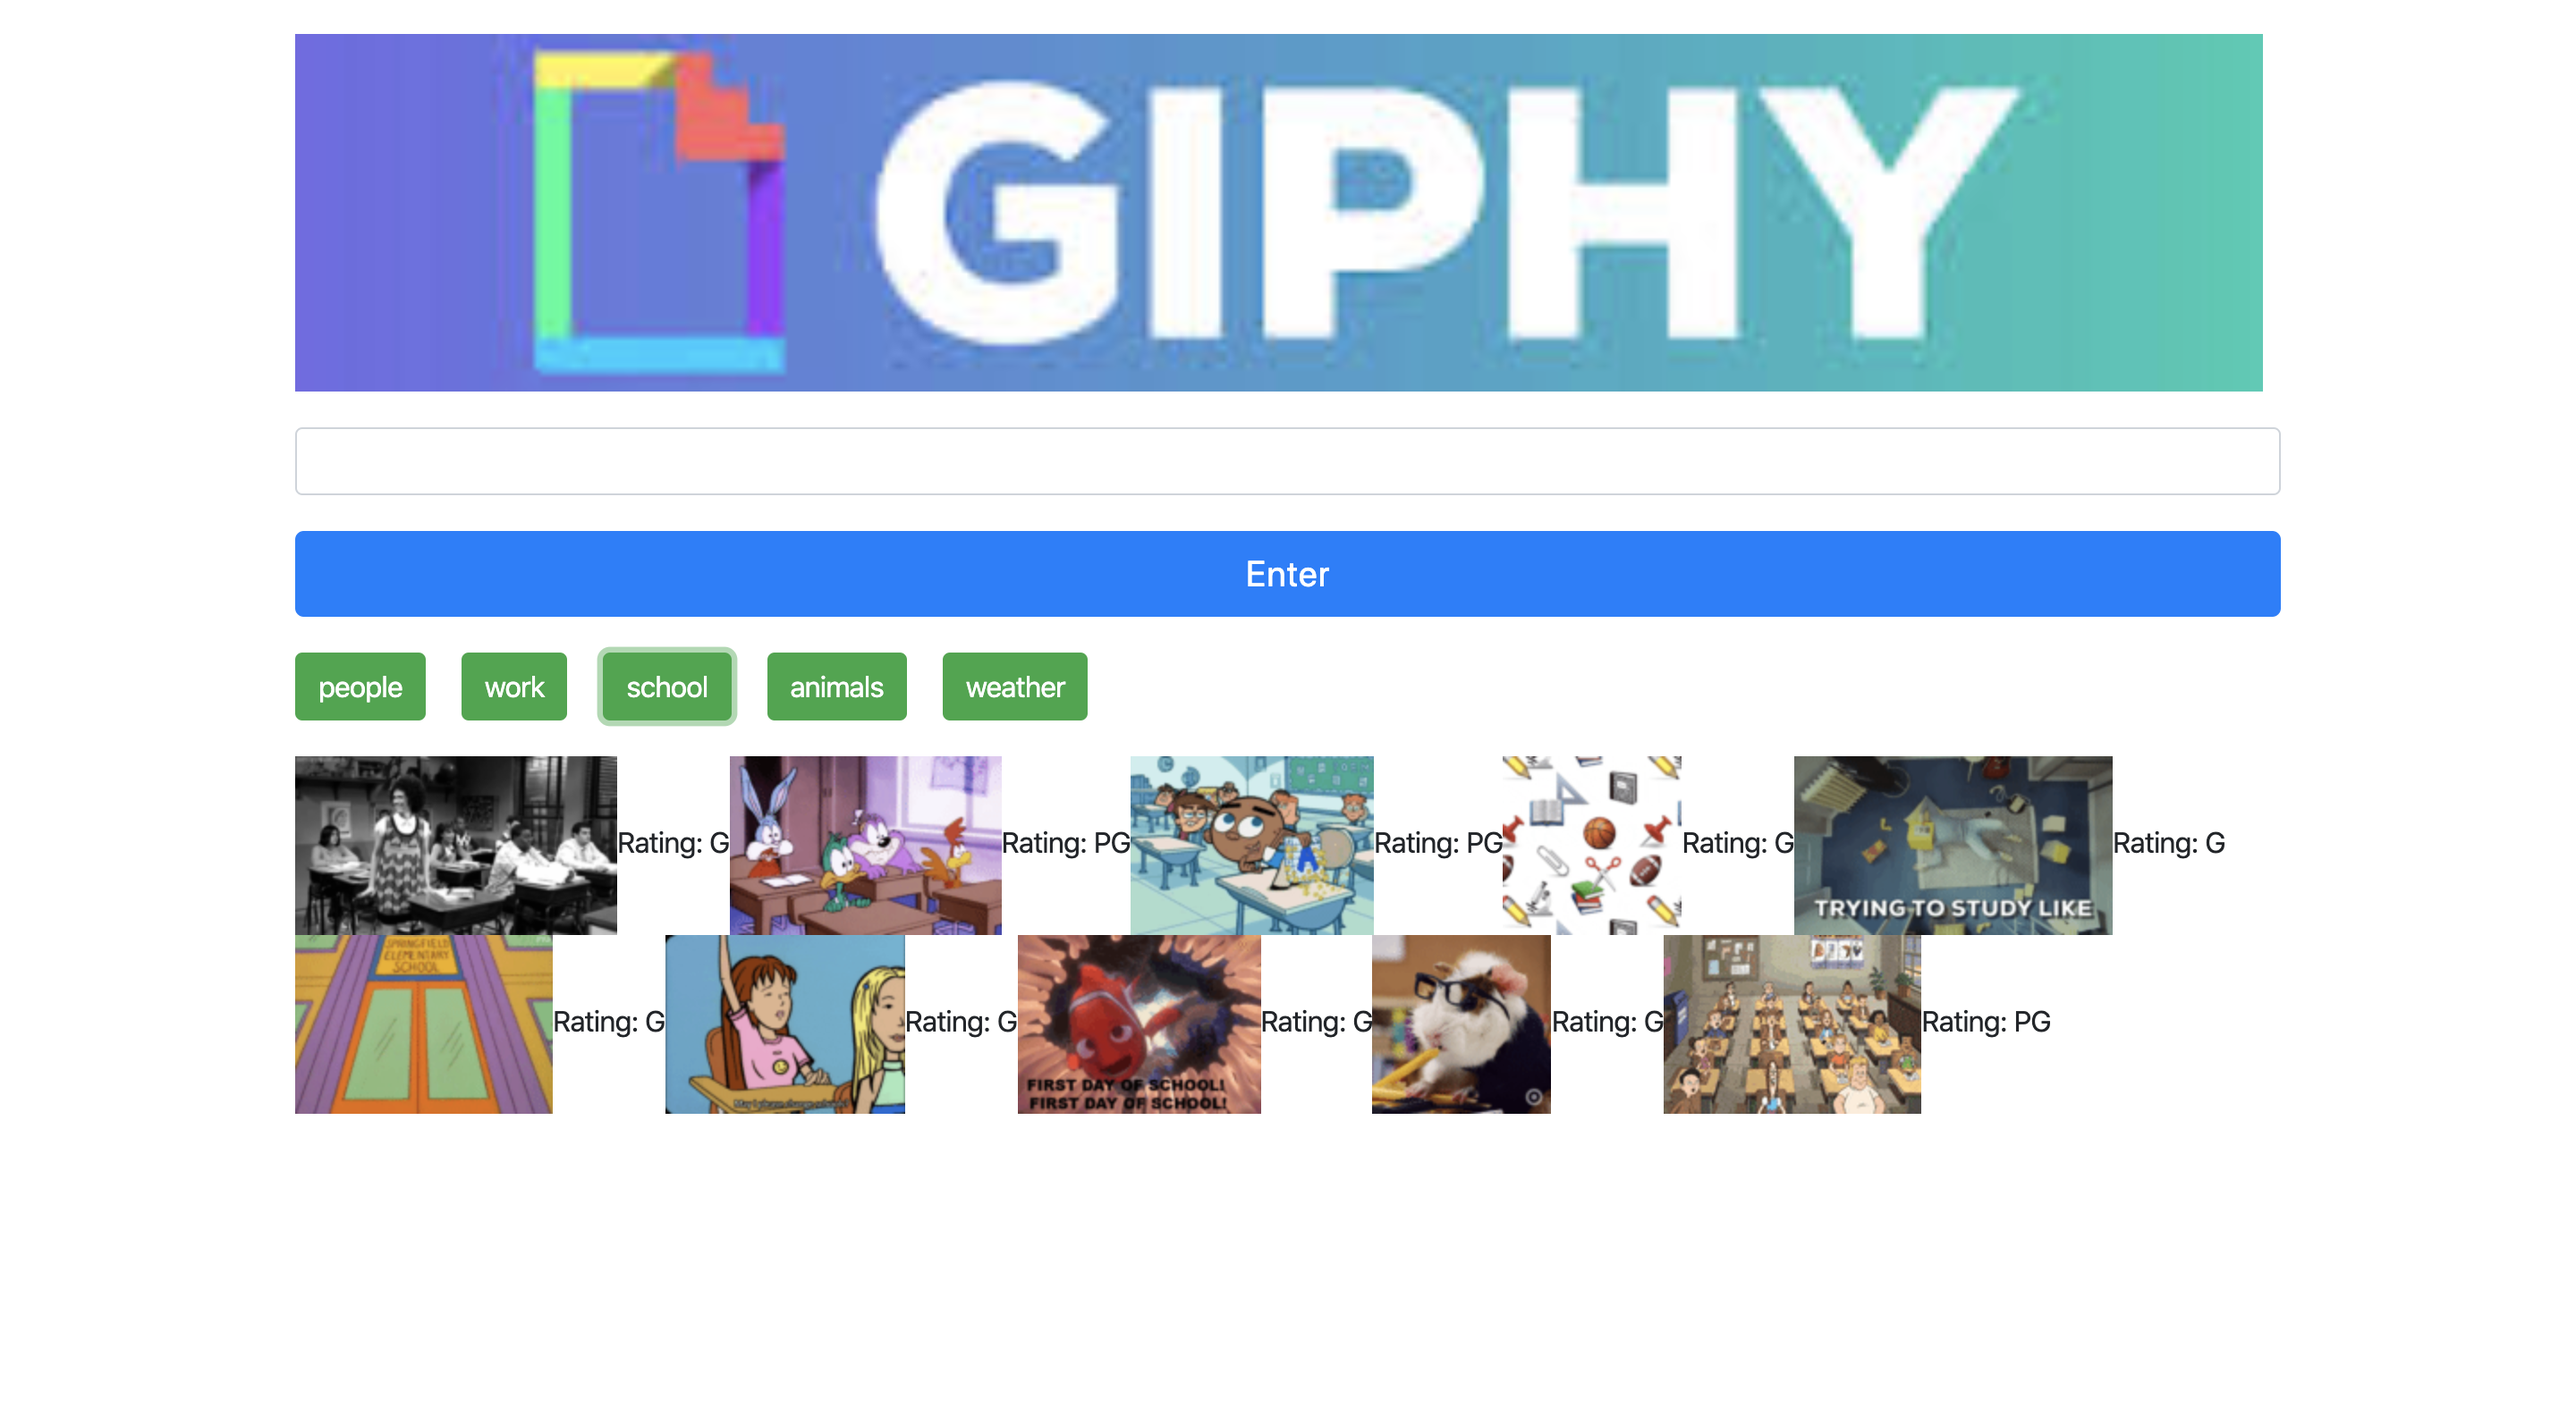
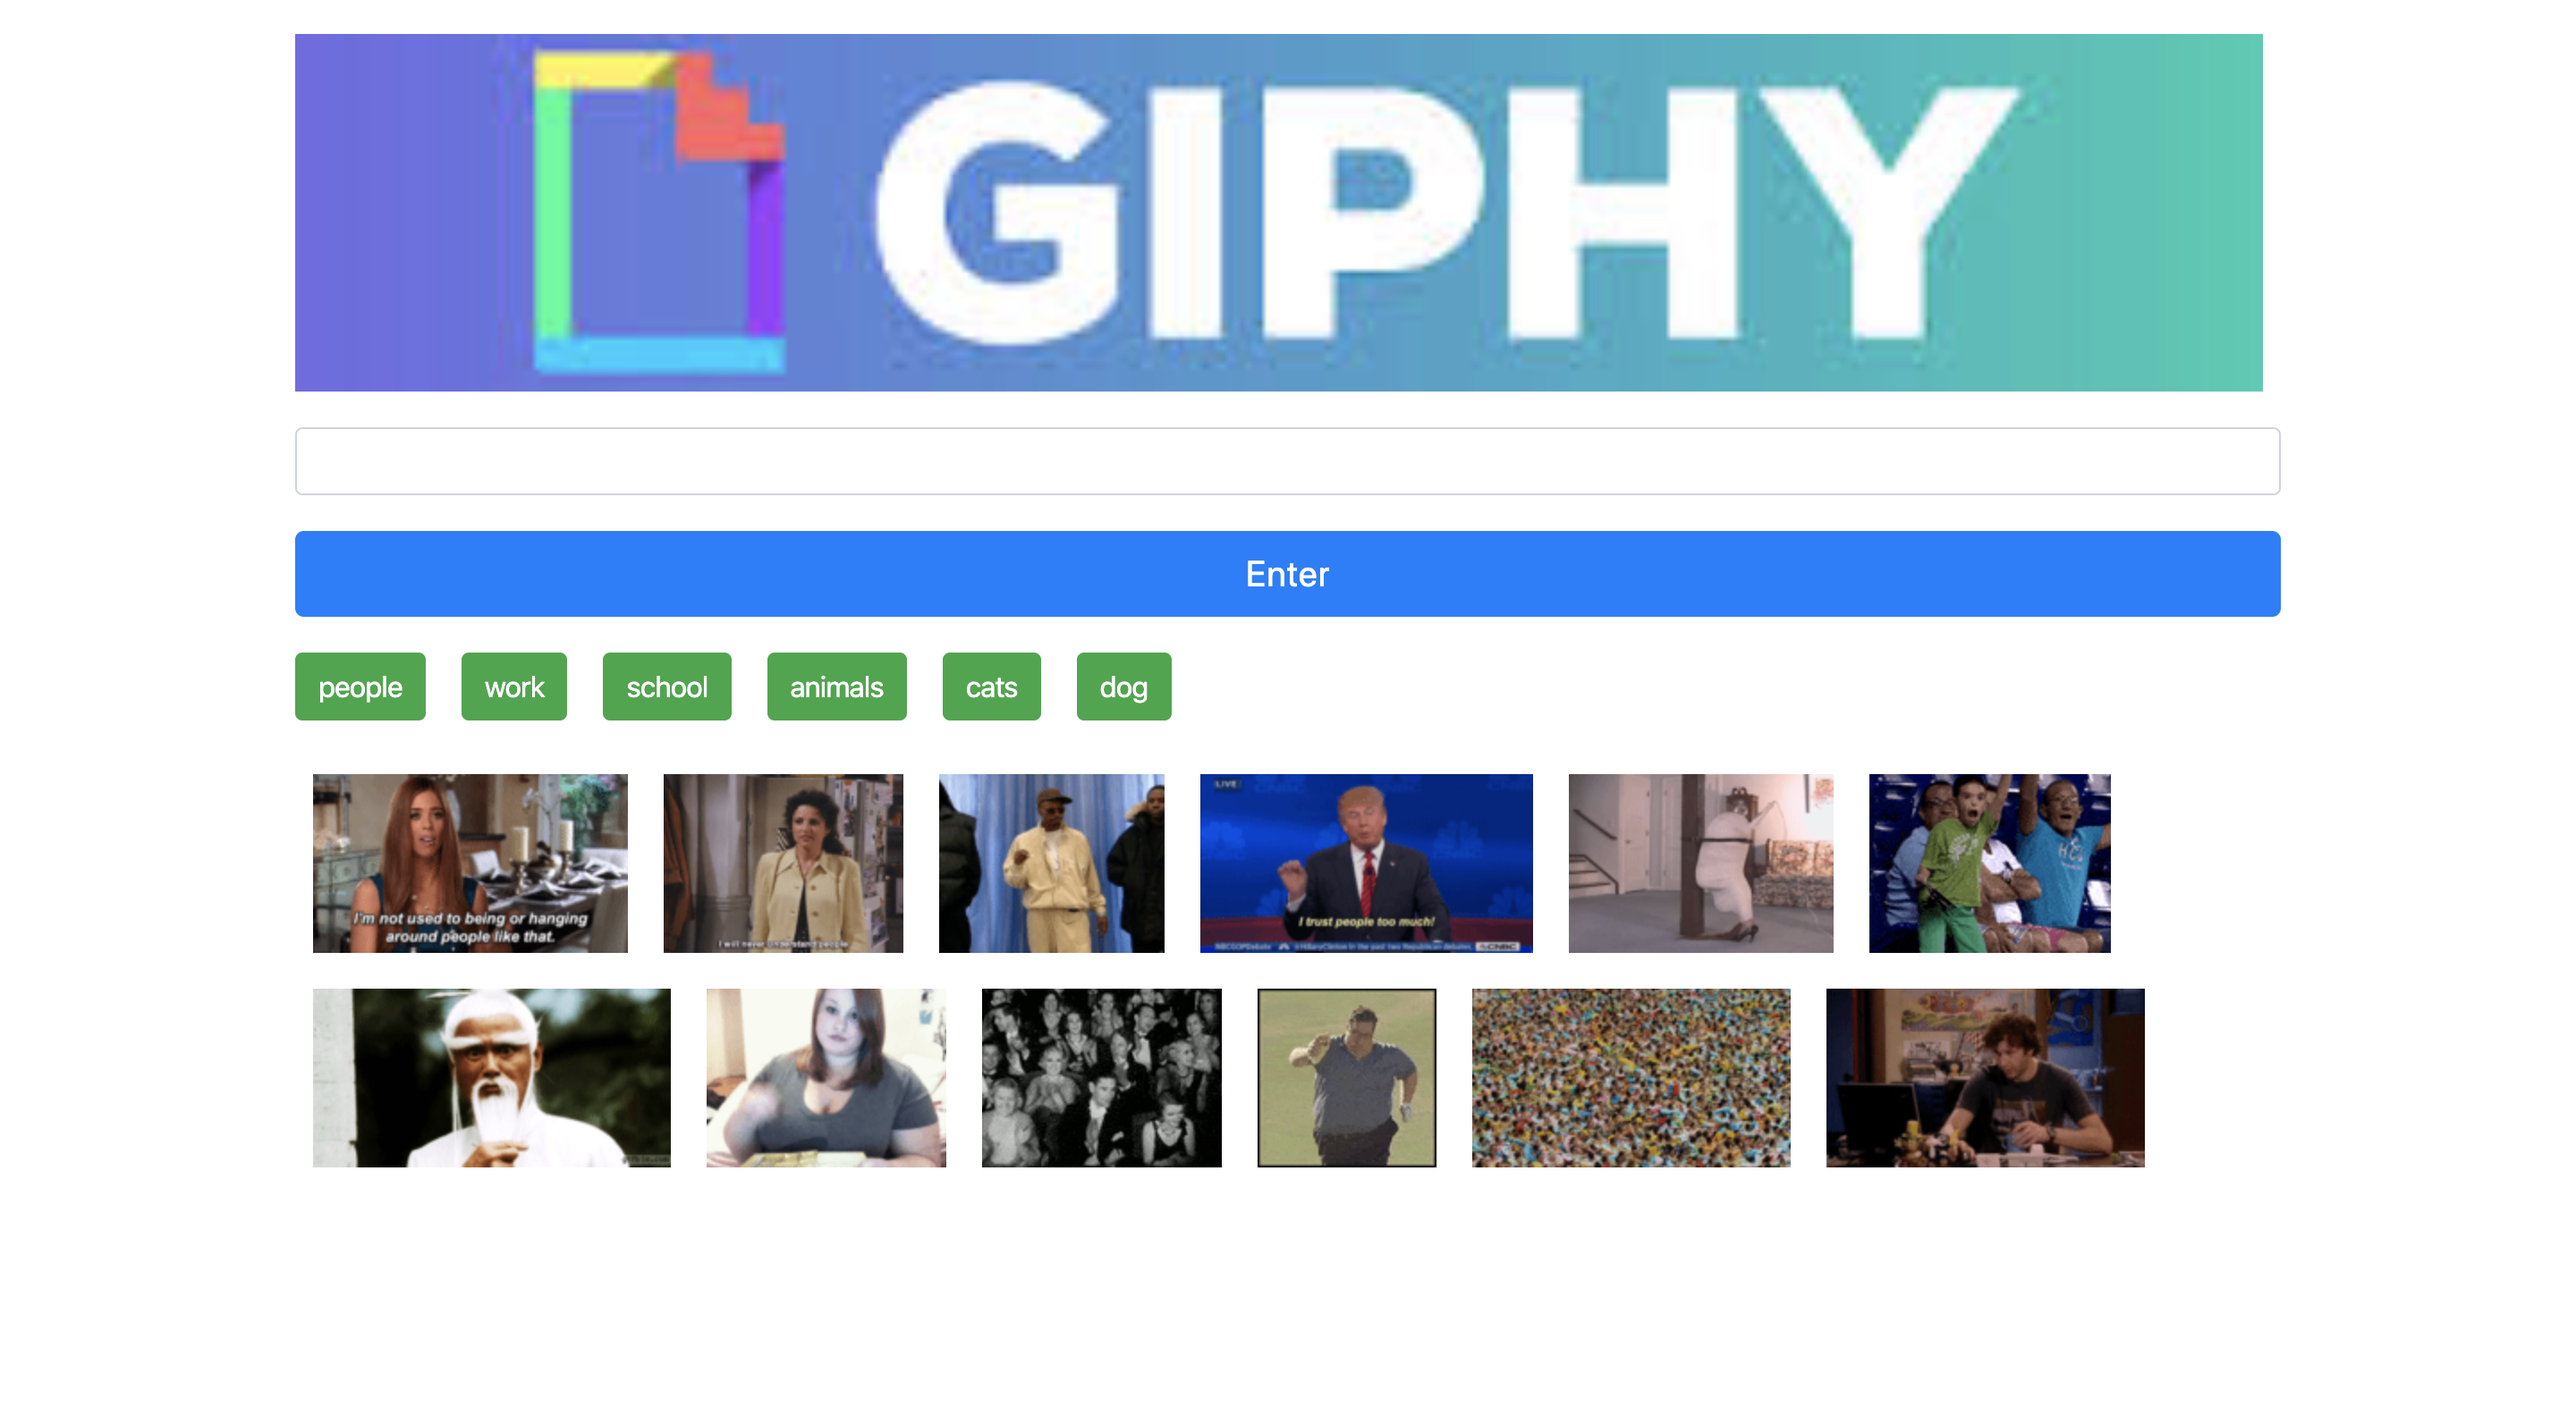
small changes

Changed region(s): [[0.0938, 0.467, 0.875, 0.8405], [0.25, 0.4358, 0.2812, 0.467]]

diff --git a/giphy.js b/giphy.js
@@ -35,7 +35,7 @@ $(document).ready(function() { //this is the "JQuery" equivalent of document.add
   }
 
   function getGiphy(item) {
-    queryURL = "https://api.giphy.com/v1/gifs/search?q=" + item + "&api_key=qwFFFNV5GdtdNLgyl23TZvqrCFMPbqGj&limit=10";
+    queryURL = "https://api.giphy.com/v1/gifs/search?q=" + item + "&api_key=qwFFFNV5GdtdNLgyl23TZvqrCFMPbqGj&limit=12";
     $.ajax({
       url: queryURL,
       method: "get"
@@ -54,7 +54,7 @@ $(document).ready(function() { //this is the "JQuery" equivalent of document.add
           .attr("data-still", imageStill)
           .attr("data-animate", imageAnimate)
           .attr("data-state", "still");
-        $("#div3").prepend(`Rating: ${rating.toUpperCase()}`);
+        //$("#div3").prepend(`Rating: ${rating.toUpperCase()}`);
         $("#div3").prepend($img);
         $(`#${imageId}`).on("click", function() { //I tried targeting the (.gif) class of the images, but that only allowed this function to work on the odd numbered gifs. this problem was solved by using the gif's imageId. this problem was possibly due to an issue in JS under the hood.  
           const state = $(this).attr("data-state");

diff --git a/giphy.css b/giphy.css
@@ -2,6 +2,9 @@
 margin-top: 20px;
 margin-bottom: 20px;
 }
+.gif {
+  padding: 10px;
+}
 
 .btn{
     margin-bottom: 20px;
